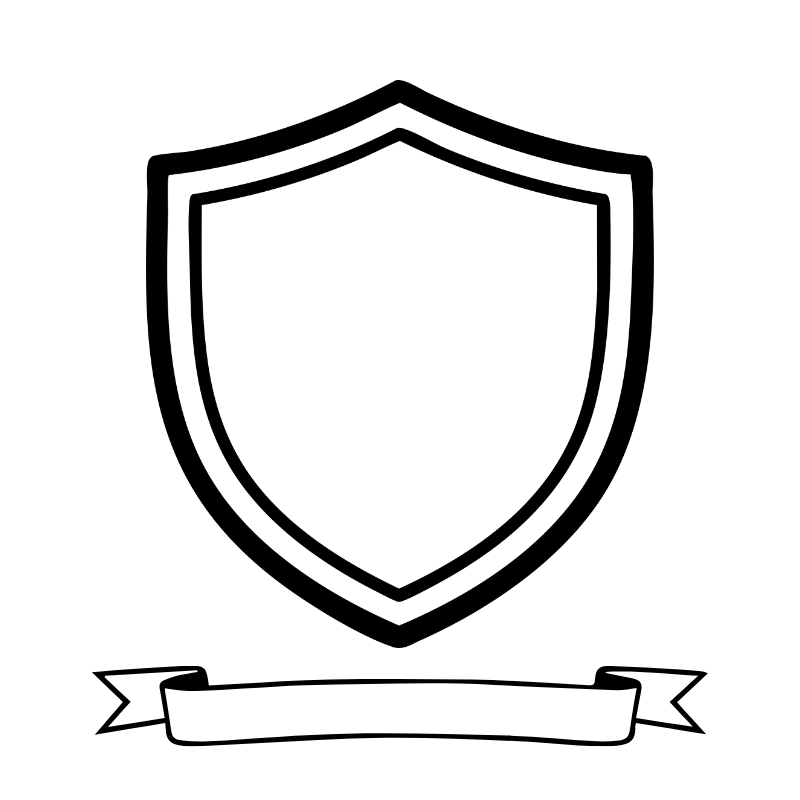
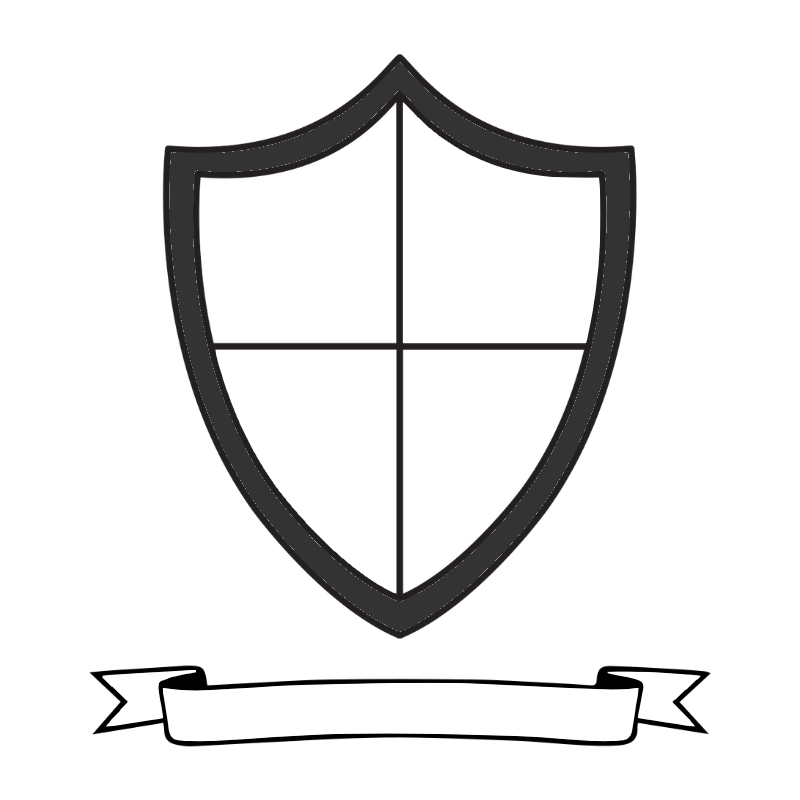
First Pawn, change asset for board and fix git workflow

diff --git a/src/client/render/PawnLayer.cpp b/src/client/render/PawnLayer.cpp
@@ -1,0 +1,39 @@
+#include "render/PawnLayer.h"
+
+using namespace render;
+
+#include <iostream>
+#include <cmath>
+
+#include "state/GameState.h"
+#include "state/Dragon.h"
+
+constexpr float SIZE_PAWN = 25.f;
+
+PawnLayer::PawnLayer() {
+    if(!dragon_texture.loadFromFile("assets/img/pawn/dragon.png"))
+        std::cerr << "Error: Could not load image!" << std::endl;
+}
+
+PawnLayer::~PawnLayer() = default;
+
+
+void PawnLayer::render(sf::RenderWindow& window, state::GameState& state) {
+    draw_dragon(window, state.get_dragon());
+}
+
+void PawnLayer::draw_dragon (sf::RenderWindow& window, state::Dragon& dragon){
+    sf::CircleShape dragon_shape(SIZE_PAWN);
+
+    auto pos = dragon.get_position();
+    // Position Hex to pix
+    auto x = static_cast<float>(std::sqrt(3) * pos.q + sqrt(3) / 2 * pos.r);
+    auto y = static_cast<float>(3. / 2 * pos.r);
+    x = x * SIZE_PAWN;
+    y = y * SIZE_PAWN;
+    dragon_shape.setPosition({x,y});
+    dragon_shape.setOrigin({SIZE_PAWN, SIZE_PAWN}); // center
+    dragon_shape.setTexture(&dragon_texture);
+
+    window.draw(dragon_shape);
+}

diff --git a/src/client/render/StateRender.cpp b/src/client/render/StateRender.cpp
@@ -2,6 +2,7 @@
 
 #include "BoardLayer.h"
 #include "DiceLayer.h"
+#include "PawnLayer.h"
 #include "TurnLayer.h"
 using namespace render;
 #include <state/GameState.h>
@@ -10,6 +11,7 @@ StateRender::StateRender (sf::RenderWindow& window, state::GameState& GameState)
     layers.push_back(std::make_shared<TurnLayer>());
     layers.push_back(std::make_shared<DiceLayer>());
     layers.push_back(std::make_shared<BoardLayer>());
+    layers.push_back(std::make_shared<PawnLayer>());
 }
 
 StateRender::~StateRender () = default;

diff --git a/src/client/render/DiceLayer.cpp b/src/client/render/DiceLayer.cpp
@@ -17,7 +17,7 @@ DiceLayer::DiceLayer() {
 DiceLayer::~DiceLayer () = default;
 
 void DiceLayer::render(sf::RenderWindow& window, state::GameState& state) {
-    auto draw = state.get_draw_dice();
+    auto draw = state.get_draw_dice().get_draw();
     for (int i = 0; i < static_cast<int>(draw.size()); i++) {
         sf::RectangleShape square;
         square.setPosition({static_cast<float>(-580+60*i),320});

diff --git a/src/client/render/BoardLayer.cpp b/src/client/render/BoardLayer.cpp
@@ -1,15 +1,13 @@
 #include  "render/BoardLayer.h"
-
-#include <complex>
-
-#include "state/CenterTile.h"
-#include "state/ClassicTile.h"
-#include "state/NestTile.h"
 using namespace render;
 
 #include <iostream>
+#include <cmath>
 
 #include "state/GameState.h"
+#include "state/CenterTile.h"
+#include "state/ClassicTile.h"
+#include "state/NestTile.h"
 
 constexpr float SIZE_HEXA = 35.f;
 
